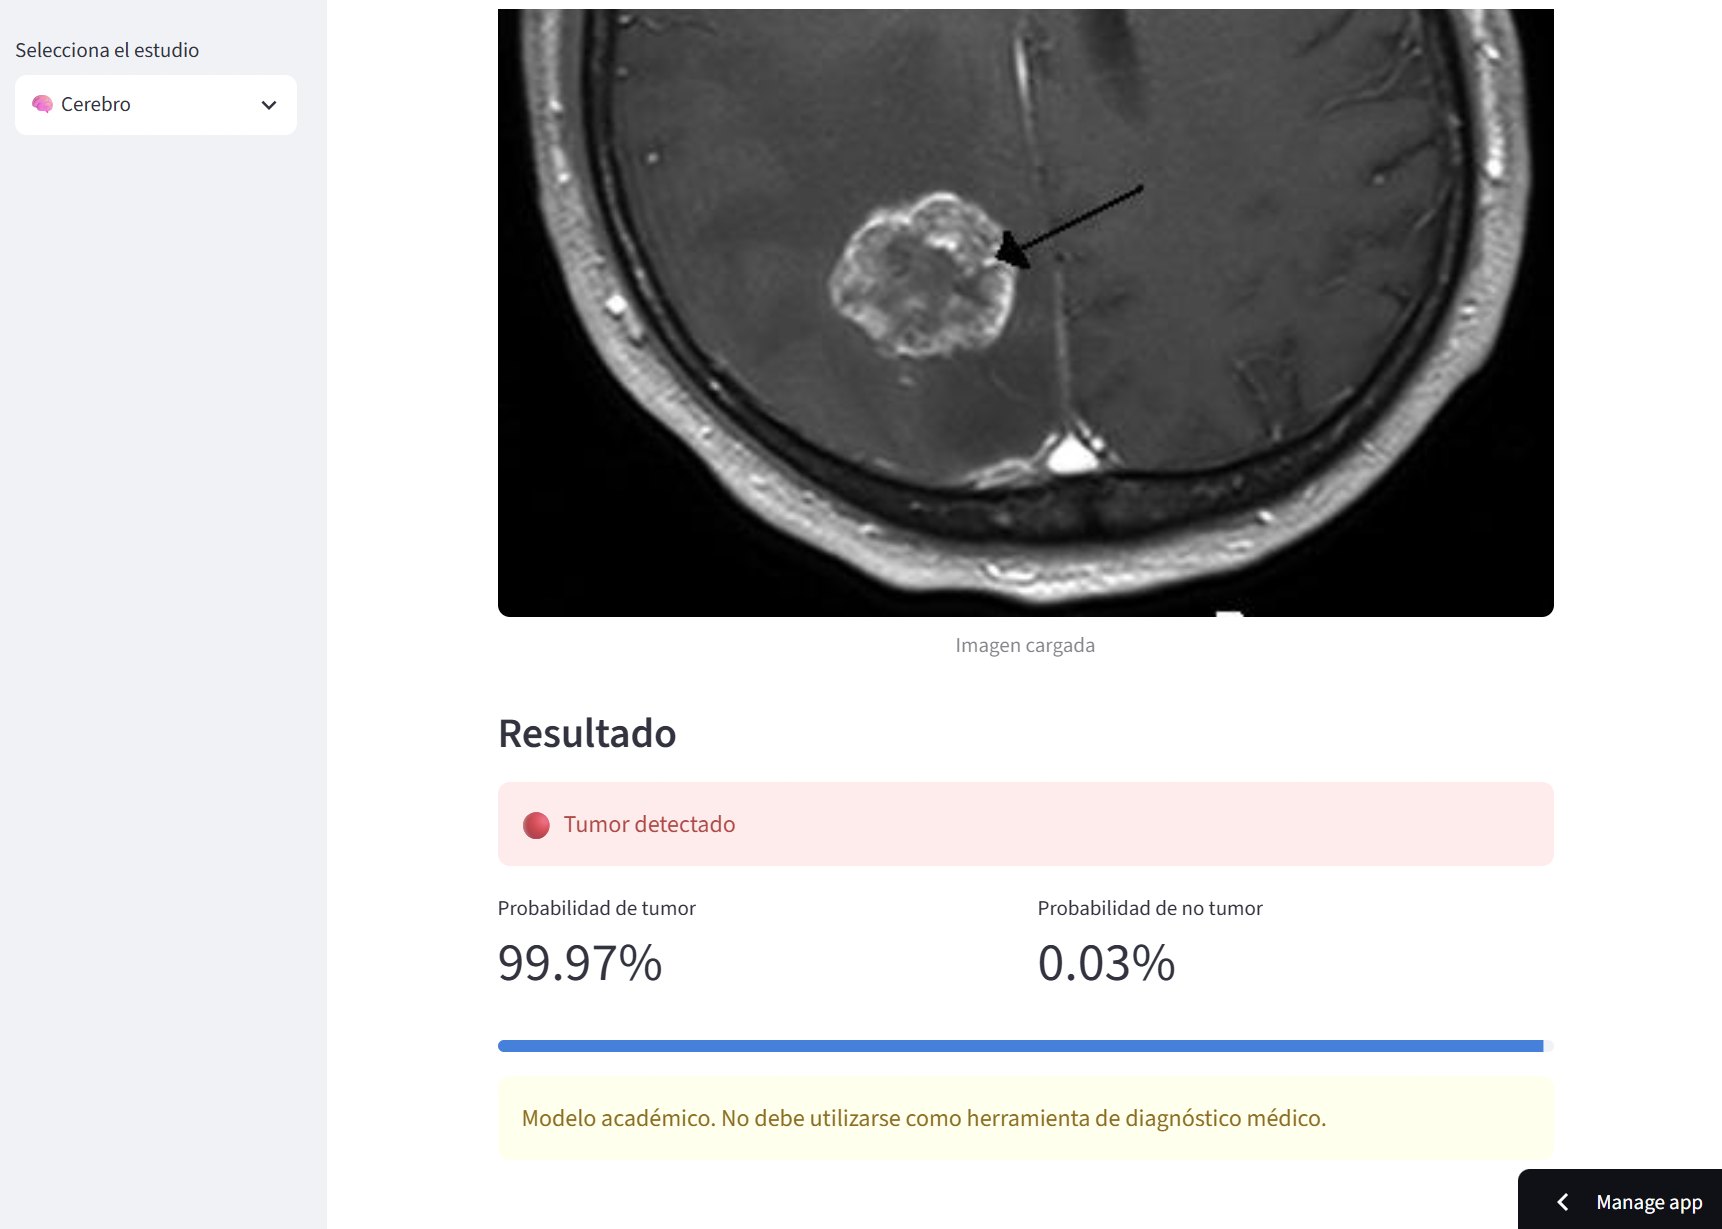
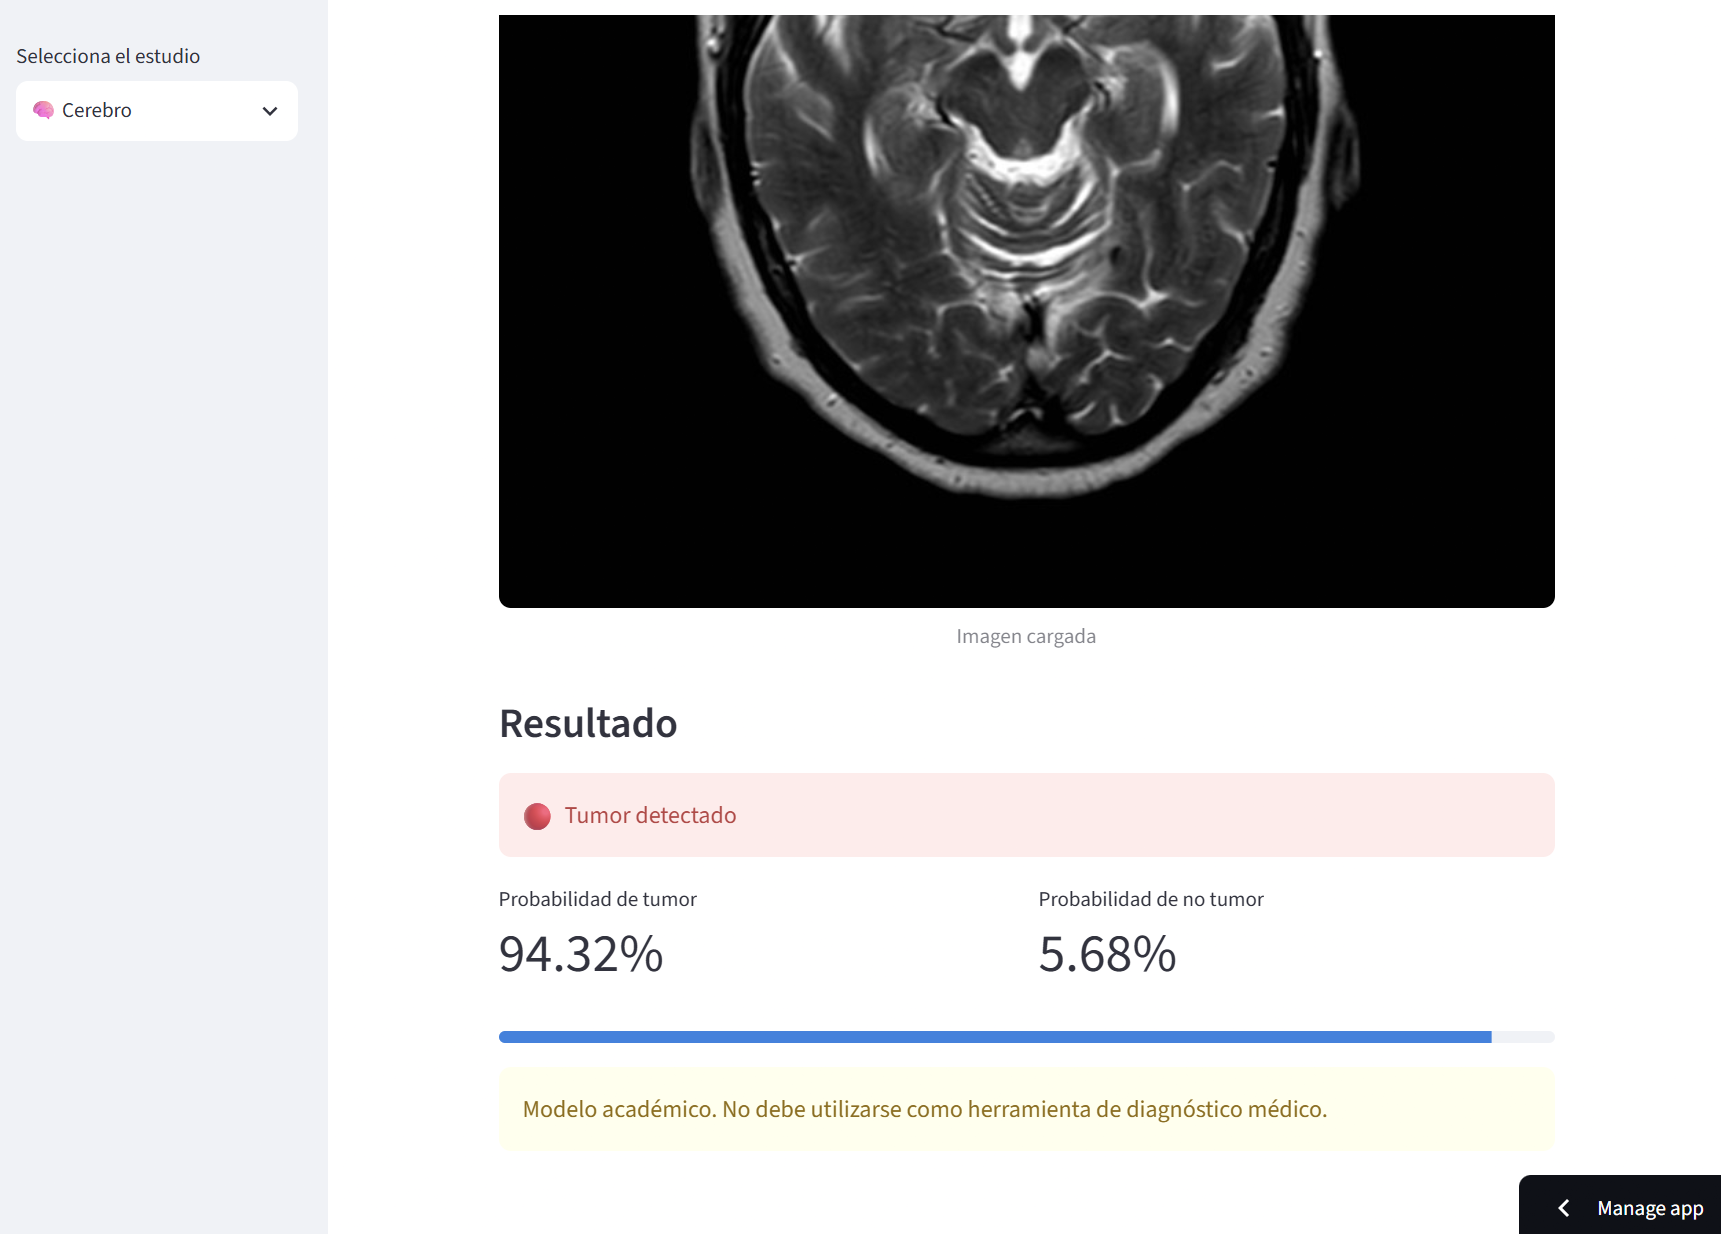
modificaciones

diff --git a/README.es.md b/README.es.md
@@ -1,3 +1,7 @@
+<p align="center">
+  <img src="assets/logo.png" width="700">
+</p>
+
 # 🩺 MedImage Diagnosis: Brain & Liver Tumor Detection
 
 Sistema desarrollado mediante **Deep Learning** para la detección automática de tumores en imágenes médicas.
@@ -56,3 +60,21 @@ Para ello se desarrollaron dos pipelines independientes que posteriormente fuero
 - Aplicación web desarrollada con Streamlit.
 - Descarga automática de modelos desde Google Drive.
 - Predicción en tiempo real sobre imágenes médicas.
+
+## 🖥 Vista previa
+
+### Página principal
+
+<p align="center">
+  <img src="assets/screenshots/home_streamlit.png" width="900">
+</p>
+
+### 🧠 Clasificador de tumor cerebral
+
+<p align="center">
+  <img src="assets/screenshots/streamlit_cerebro.png" width="900">
+</p>
+
+<p align="center">
+  <img src="assets/screenshots/streamlit_cerebro_result.png" width="900">
+</p>
